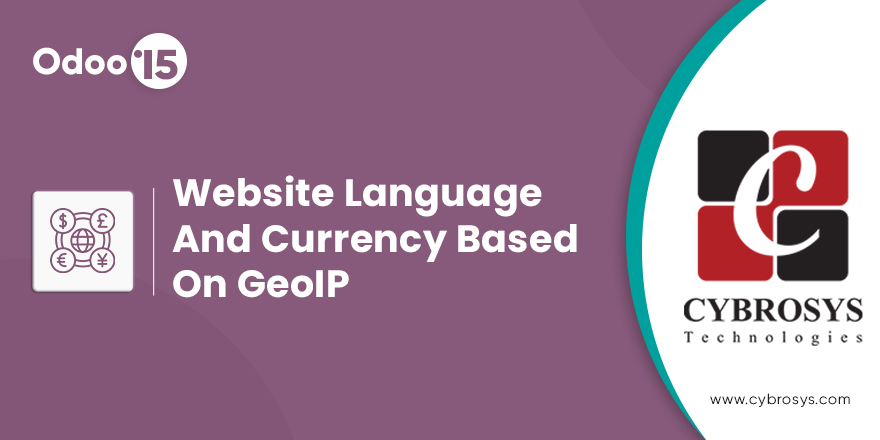
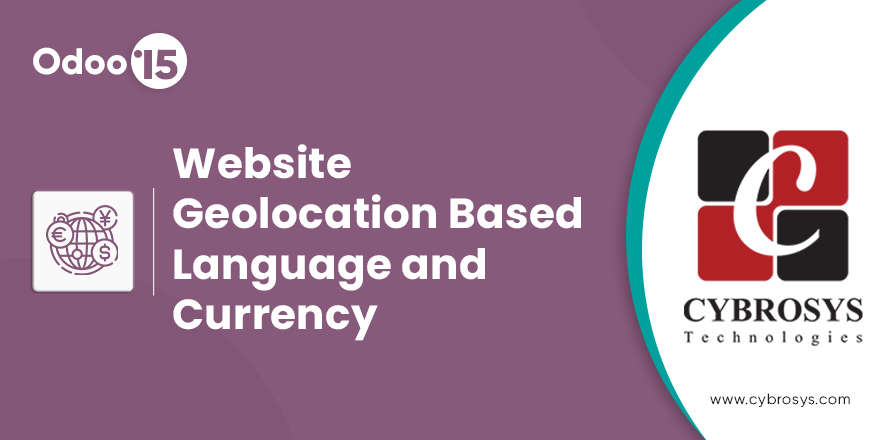
Aug 31: [FIX] Bug Fixed 'geoip_website_redirect'

Changed region(s): [[0.1841, 0.325, 0.675, 0.7682], [0.0307, 0.4727, 0.1534, 0.6205]]

diff --git a/geoip_website_redirect/static/description/index.html b/geoip_website_redirect/static/description/index.html
@@ -25,7 +25,7 @@
             <div class="col-sm-12 col-md-12 col-lg-12">
                 <!-- APP HERO -->
                 <h3 style="color: #FFFFFF; font-weight: bolder; font-size: 35px; text-align: center; margin-top: 50px;">
-                    Website Language And Currency Based On GeoIP</h3>
+                    Website Geolocation Based Language and Currency</h3>
                 <p style="color:#FFFFFF; padding: 8px 15px; text-align: center; font-size: 20px;">
                     Module To Map Currency And Language Based On Customer's IP Address</p><br/><br/><br/><br/><br/>
                 <!-- END OF APP HERO -->
@@ -111,7 +111,7 @@
 <div class="row"
      style="font-family: 'Montserrat', sans-serif; font-weight: 400; font-size: 14px; line-height: 200%;">
     <div class="col-sm-12 py-4">
-        Website Language And Currency Based On GeoIP is an application which is
+        Website Geolocation Based Language and Currency is an application which is
         fetch the IP address
         of customer's device and allow them to see website in their native
         language and

diff --git a/geoip_website_redirect/__manifest__.py b/geoip_website_redirect/__manifest__.py
@@ -20,12 +20,12 @@
 #
 ###############################################################################
 {
-    'name': 'Website Language And Currency Based On GeoIP',
+    'name': 'Website Geolocation Based Language and Currency',
     'version': '15.0.1.0.0',
     'category': 'eCommerce, Productivity',
     'summary': """This module helps you to map currency and language
      based on Customer's IP address for Odoo 15""",
-    'description': """Website Language And Currency Based On GeoIP Application
+    'description': """Website Geolocation Based Language and Currency Application
      module helps the user to view website and its contents in the language of 
      country from which the user login and also able to view the website shop's 
      currency as that country's currency""",
@@ -47,5 +47,4 @@
     'installable': True,
     'auto_install': False,
     'application': False,
-
 }

diff --git a/geoip_website_redirect/controllers/main.py b/geoip_website_redirect/controllers/main.py
@@ -26,7 +26,7 @@ from odoo.addons.portal.controllers.web import Home
 from odoo.http import request
 
 
-class GeoIP(Home):
+class Geolocation(Home):
     """ controller for selecting login user's datas """
     def get_location(self, ip_address):
         """ get location details of user using ip address"""
@@ -36,7 +36,7 @@ class GeoIP(Home):
     @http.route()
     def web_login(self, redirect=None, **kw):
         """ on login access customer country information """
-        result = super(GeoIP, self).web_login(redirect=redirect, **kw)
+        result = super(Geolocation, self).web_login(redirect=redirect, **kw)
         request.env.user.write({'ip_address': kw.get('user_ip')})
         datas = self.get_location(kw.get('user_ip'))
         if datas:

diff --git a/geoip_website_redirect/README.rst b/geoip_website_redirect/README.rst
@@ -2,8 +2,8 @@
     :target: https://www.gnu.org/licenses/lgpl-3.0-standalone.html
     :alt: License: LGPL-3
 
-Website Language And Currency Based On GeoIP
-============================================
+Website Geolocation Based Language and Currency
+===============================================
 ThisModule helps the user to view website and its contents in language of country from which the user
 login and also able to view the website shop's currency as that country's currency
 

diff --git a/geoip_website_redirect/doc/RELEASE_NOTES.md b/geoip_website_redirect/doc/RELEASE_NOTES.md
@@ -4,4 +4,4 @@
 #### Version 15.0.1.0.0
 #### ADD
 
-- Initial commit for Website Language And Currency Based On GeoIP
+- Initial commit for Website Geolocation Based Language and Currency
